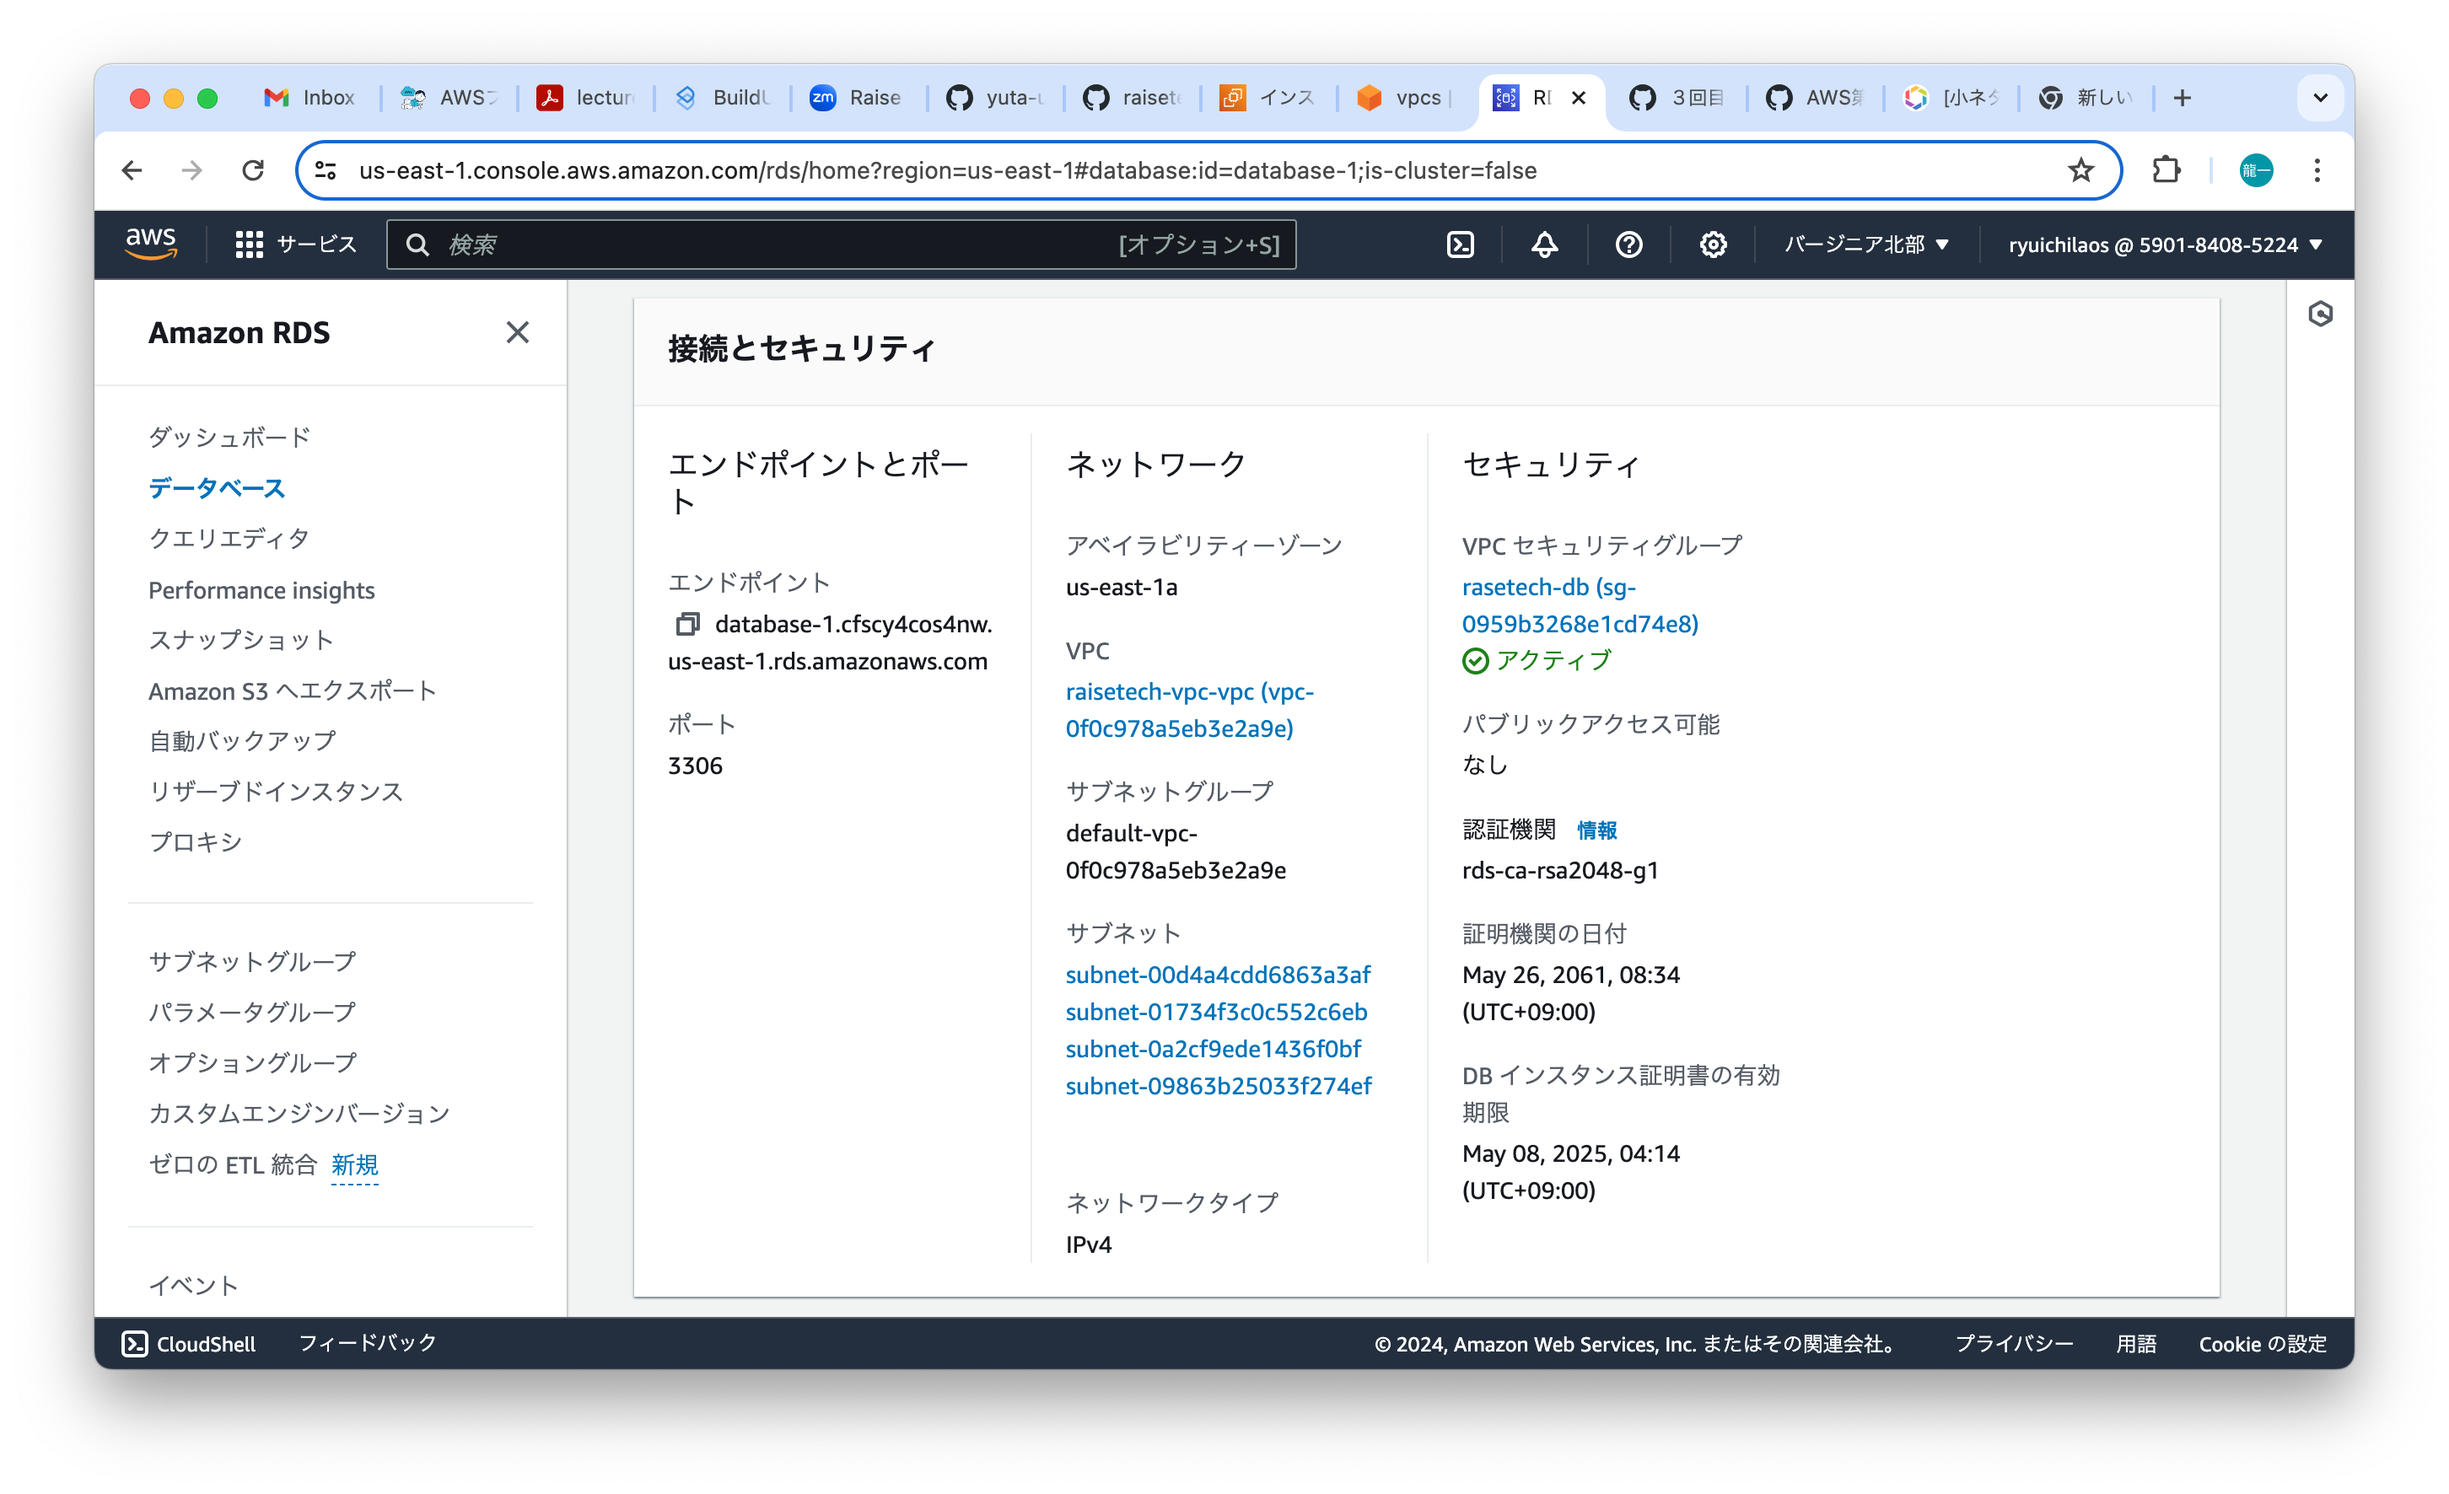
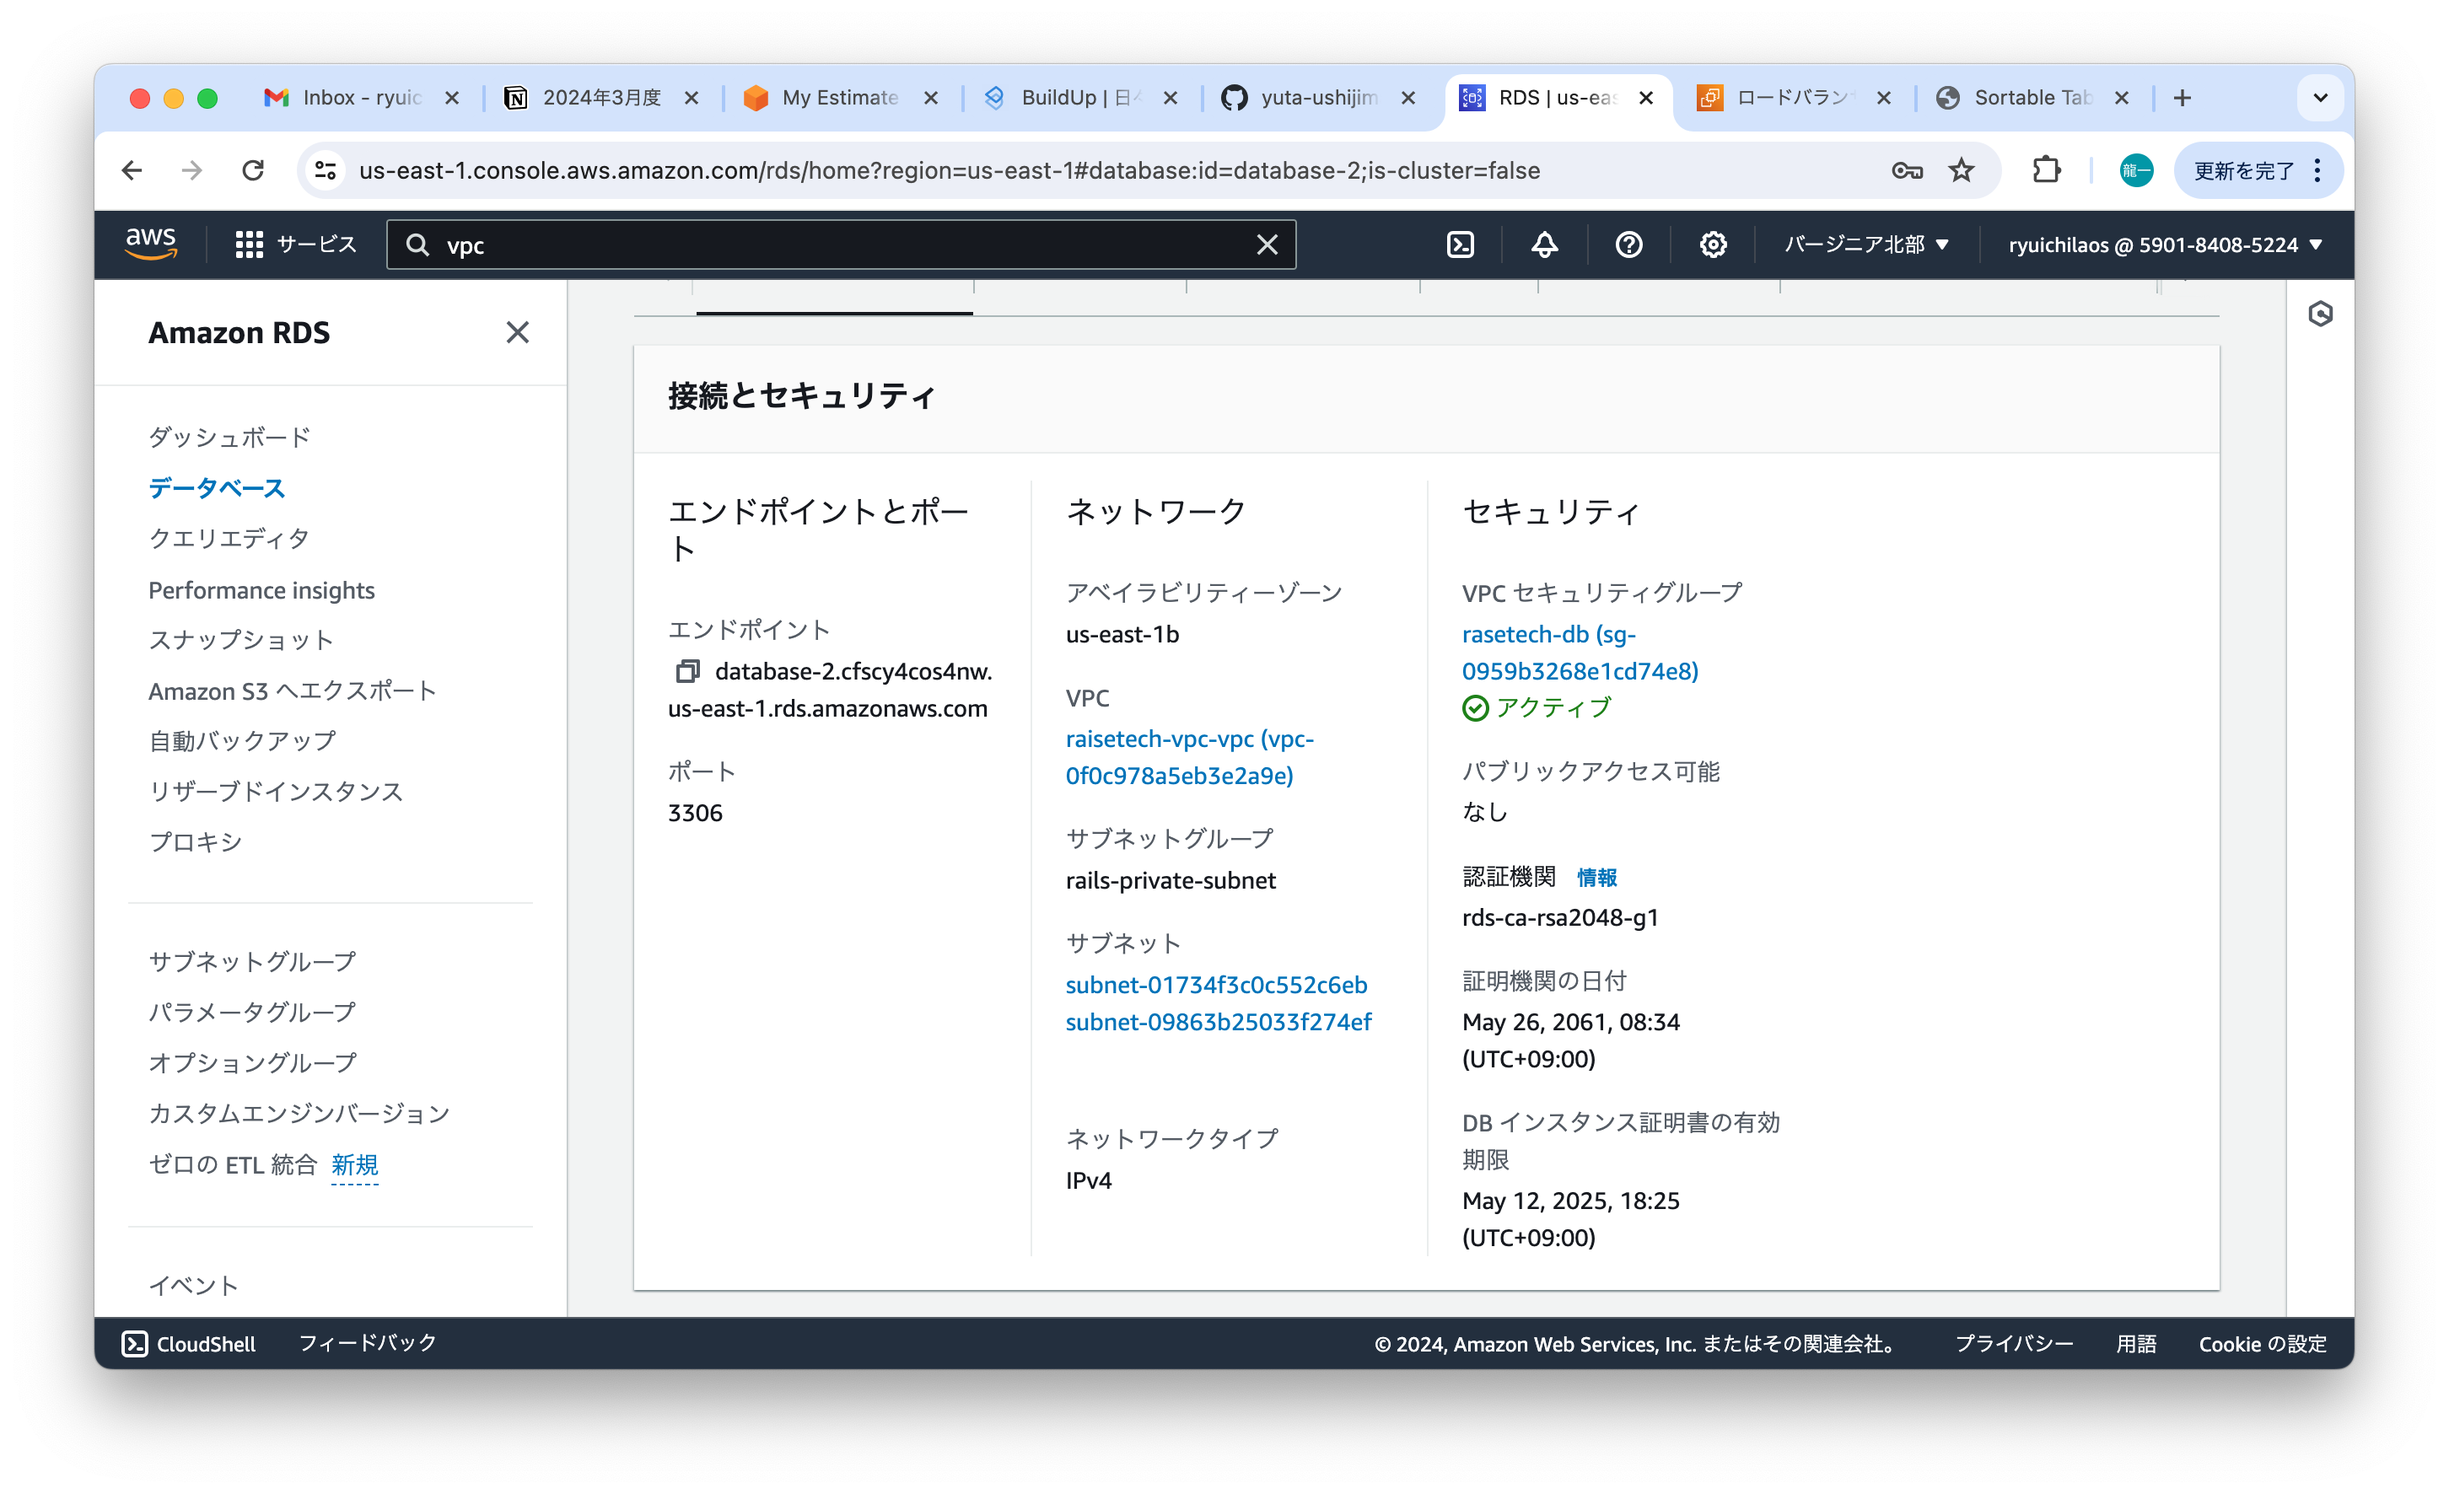
RDSのサブネットグループをプライベートサブネットのみに変更

diff --git a/lecture04.md b/lecture04.md
@@ -9,6 +9,8 @@
     ![rdsSG](images/lecture04/DB_sg_outbound.png)
 - VPC作成
   ![vpc](images/lecture04/vpc.png)
+- サブネット
+  ![subnets](images/lecture04/subnets.png)
 - ec2作成
   ![ec2](images/lecture04/ec2.png)
 - rds作成
